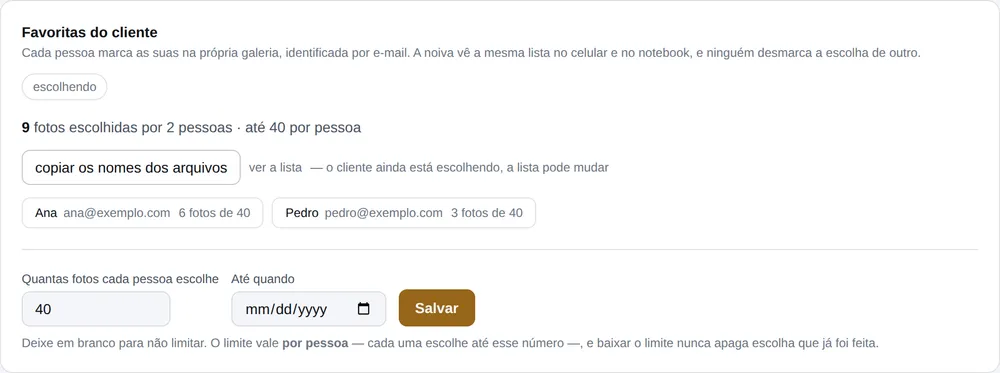
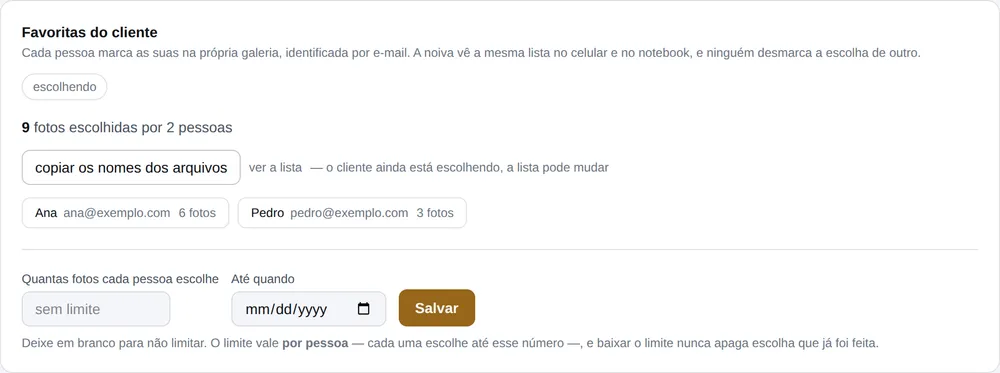
Home: favoritas sem o "40" — o padrão é sem limite
Felipe: "Por que tem limite de 40? Nas favoritas? Deixa ilimitado".

A galeria nunca teve teto: `selecao_limite` nasce nulo, e o painel diz
"sem limite" até o fotógrafo digitar um número. O 40 estava só na
vitrine — o contador da demonstração ("12 de 40 escolhidas") e o print
do painel, tirado de uma galeria de teste com limite 40 ("até 40 por
pessoa", "6 fotos de 40"). Lido na home, parecia regra do produto.

- Contador da demonstração sem "de 40".
- Print do painel refeito sem limite (`capturar-telas-home.mjs` não
  define mais `selecao_limite`).
- O primeiro item da seção diz o padrão antes da opção: "Sem limite, ou
  o número combinado."

Claude-Session: https://claude.ai/code/session_01BX4gbMQmupKQgC2xdv4fCQ

Changed region(s): [[0.217, 0.5603, 0.527, 0.5898], [0.248, 0.3244, 0.372, 0.3539], [0.031, 0.7962, 0.093, 0.8552]]

diff --git a/src/components/home/selecao-demo.tsx b/src/components/home/selecao-demo.tsx
@@ -10,15 +10,17 @@ import { usePedeMenosMovimento } from "./usa-celular";
  *
  * Briefing §10 e §23: "uma galeria grande com alguns corações marcados" e "um
  * coração é marcado". A grade é a do cliente (`GaleriaDemo`), o coração é o
- * mesmo desenho, e o contador é o que a galeria mostra quando o fotógrafo
- * combina um número: "12 de 40". O 40 é o exemplo que a página antiga já
- * usava; o limite, na galeria real, é o que o fotógrafo definir.
+ * mesmo desenho, e o contador é o que a galeria mostra.
+ *
+ * SEM "DE 40" (26/09/2026). O contador dizia "12 de 40 escolhidas", e a home
+ * passava a ideia de que a favorita tem teto — Felipe: "por que tem limite de
+ * 40? Deixa ilimitado". Na galeria real não há limite nenhum até o fotógrafo
+ * definir um; a demonstração mostra esse padrão.
  */
 
 const INICIAIS = [0, 3];
 const SEQUENCIA = [5, 1, 6, 2];
 const JA_ESCOLHIDAS = 9; // as que estariam fora da tela, para o contador ler como álbum
-const LIMITE = 40;
 
 export function SelecaoDemo({ identidade }: { identidade: Identidade }) {
   const [marcadas, setMarcadas] = useState<number[]>(INICIAIS);
@@ -51,8 +53,7 @@ export function SelecaoDemo({ identidade }: { identidade: Identidade }) {
         aria-live="off"
       >
         <span aria-hidden>♥ </span>
-        <span className="tabular-nums">{JA_ESCOLHIDAS + marcadas.length}</span> de {LIMITE}{" "}
-        escolhidas
+        <span className="tabular-nums">{JA_ESCOLHIDAS + marcadas.length}</span> escolhidas
       </p>
     </div>
   );

diff --git a/src/app/page.tsx b/src/app/page.tsx
@@ -627,8 +627,9 @@ export default function Home() {
             </p>
             <ul className="mt-8 space-y-3 text-[var(--h-tinta-2)]">
               <li>
-                <strong className="font-medium text-[var(--h-tinta)]">O número combinado.</strong> A
-                galeria conta e para no limite que você definir, com prazo se você quiser.
+                <strong className="font-medium text-[var(--h-tinta)]">Sem limite, ou o número combinado.</strong>{" "}
+                O cliente marca quantas quiser. Se você definir um número, a galeria conta e para
+                nele, com prazo se você quiser.
               </li>
               <li>
                 <strong className="font-medium text-[var(--h-tinta)]">Cada pessoa com a sua lista.</strong>{" "}
